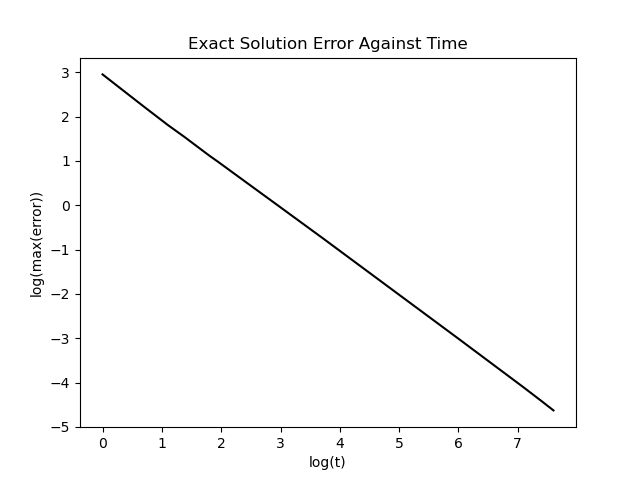
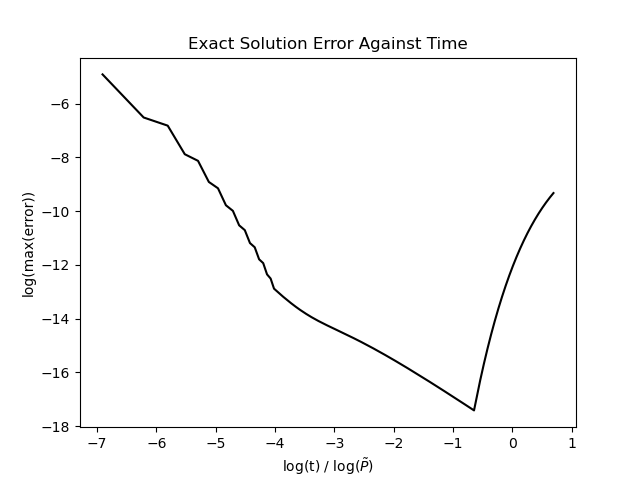
Updated exact error plot.

diff --git a/Code/MSc Code - Diffusion Equation.py b/Code/MSc Code - Diffusion Equation.py
@@ -22,16 +22,11 @@ def exactSolPlot(saveFig=False):
     Displays a log plot of the difference between the exact solution and the calculated distribution
     as a function of time.
     """
-    fig, (ax1, ax2) = plt.subplots(1, 2)
-    plt.tight_layout()
-    fig.suptitle('Exact Guassian Solution Error Against Time')
-    ax1.set_xlabel('t / $\~P$')
-    ax1.set_ylabel('max(error)')
-    ax1.plot(dt*np.linspace(0,T,T),EData, color='k')
     
-    ax2.set_xlabel('log(t) / log($\~P$)')
-    ax2.set_ylabel('log(max(error))')
-    ax2.plot(np.log(dt*np.linspace(0,T,T)),np.log(EData), color='k')
+    plt.title('Exact Solution Error Against Time')
+    plt.xlabel('log(t) / log($\~P$)')
+    plt.ylabel('log(max(error))')
+    plt.plot(np.log(dt*np.linspace(0,T,T)),np.log(EData), color='k')
 
     if saveFig:
         plt.savefig('Plots/Exact_Error.png')
